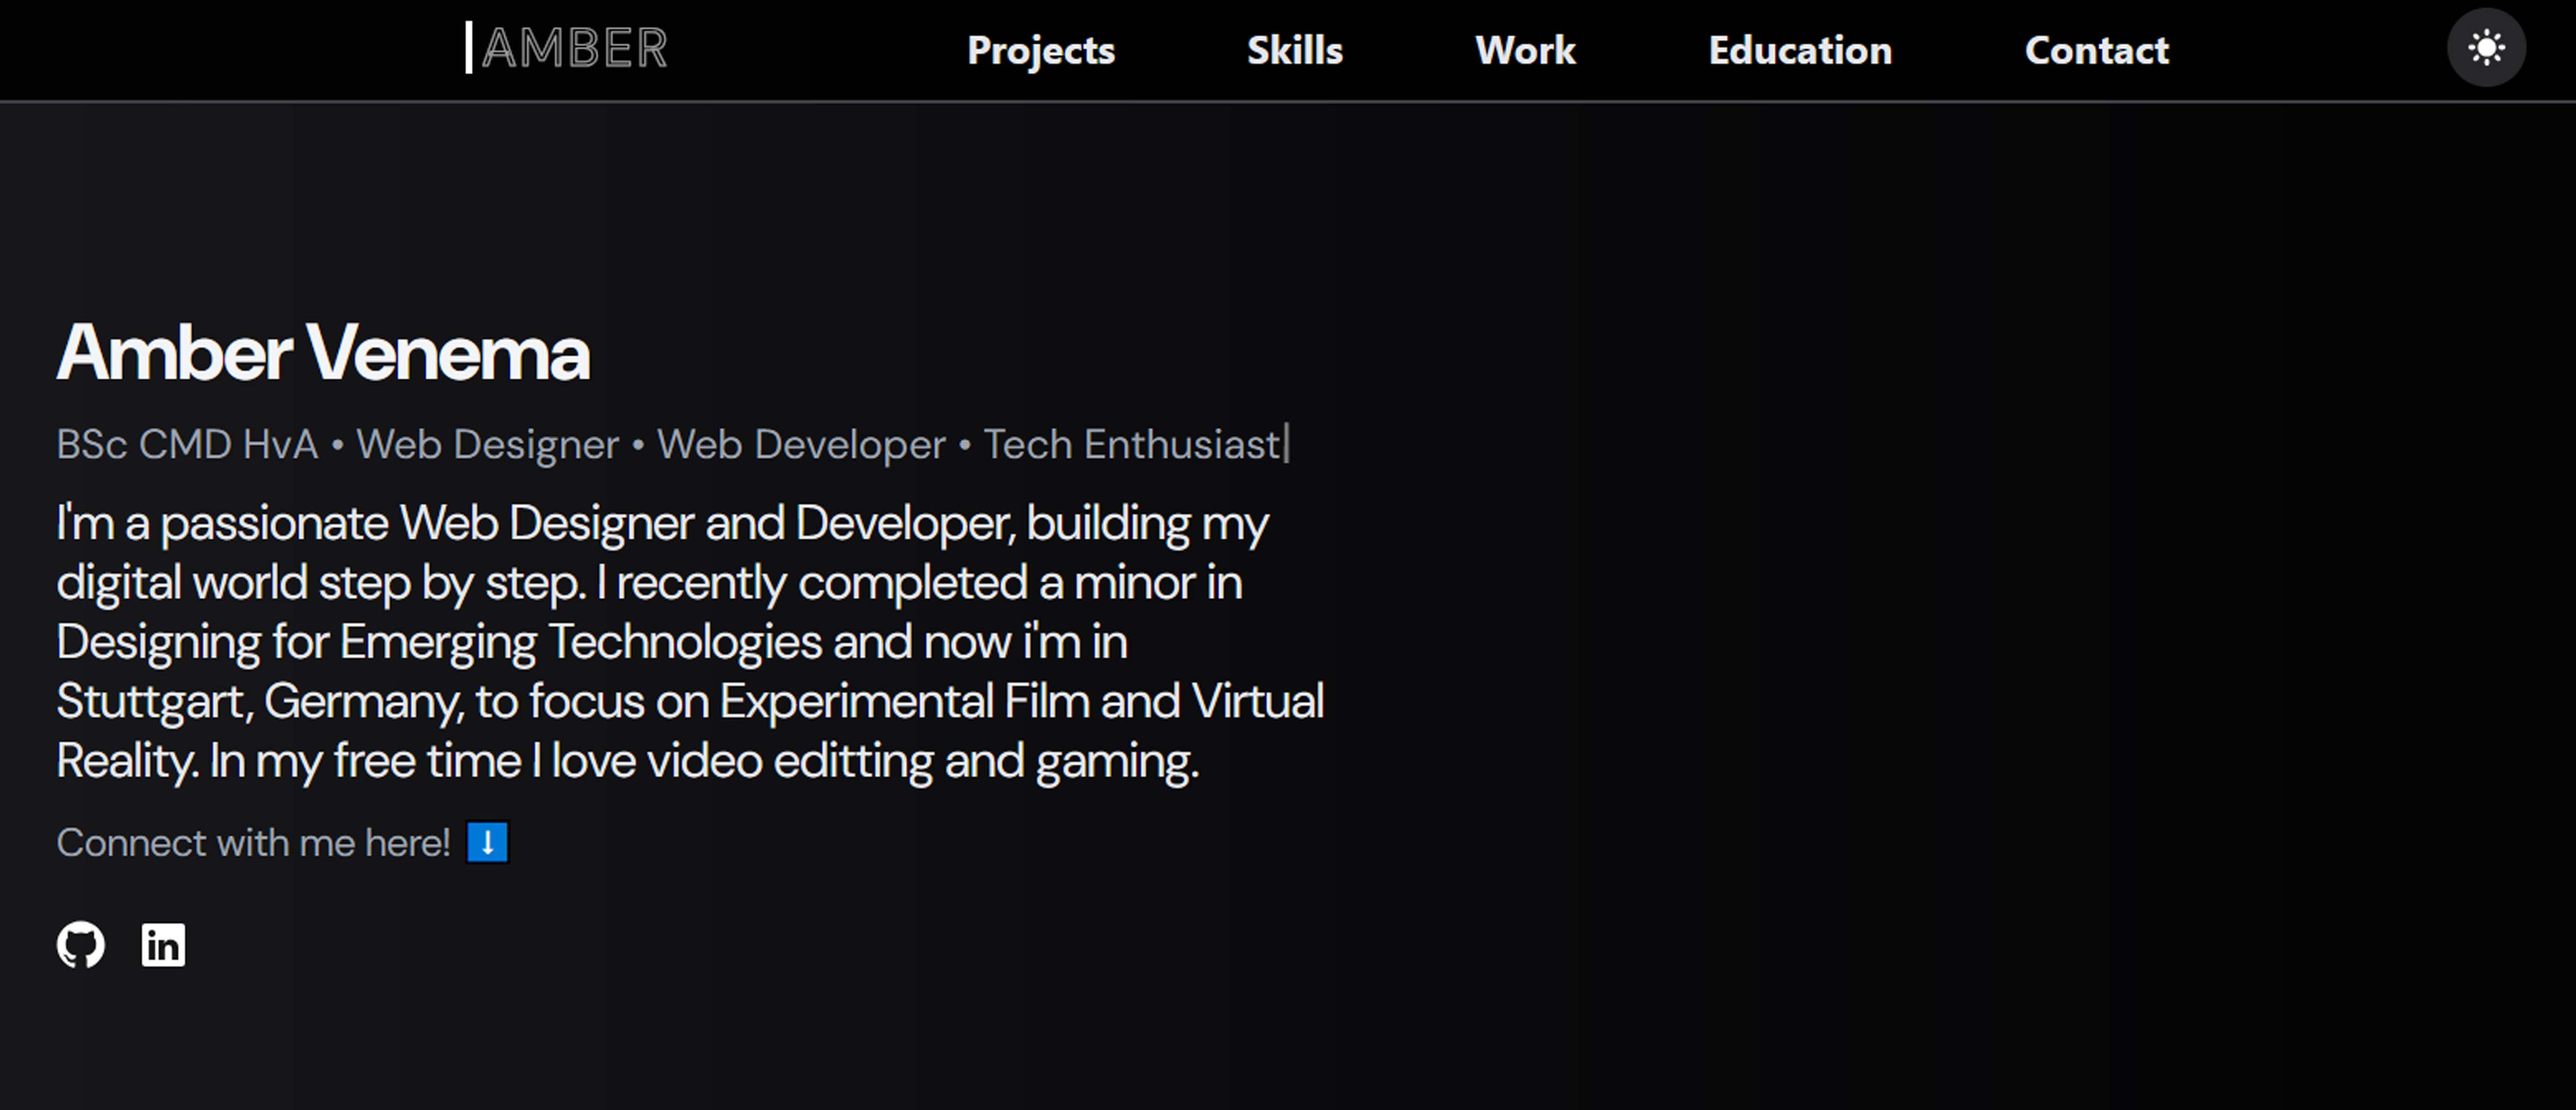
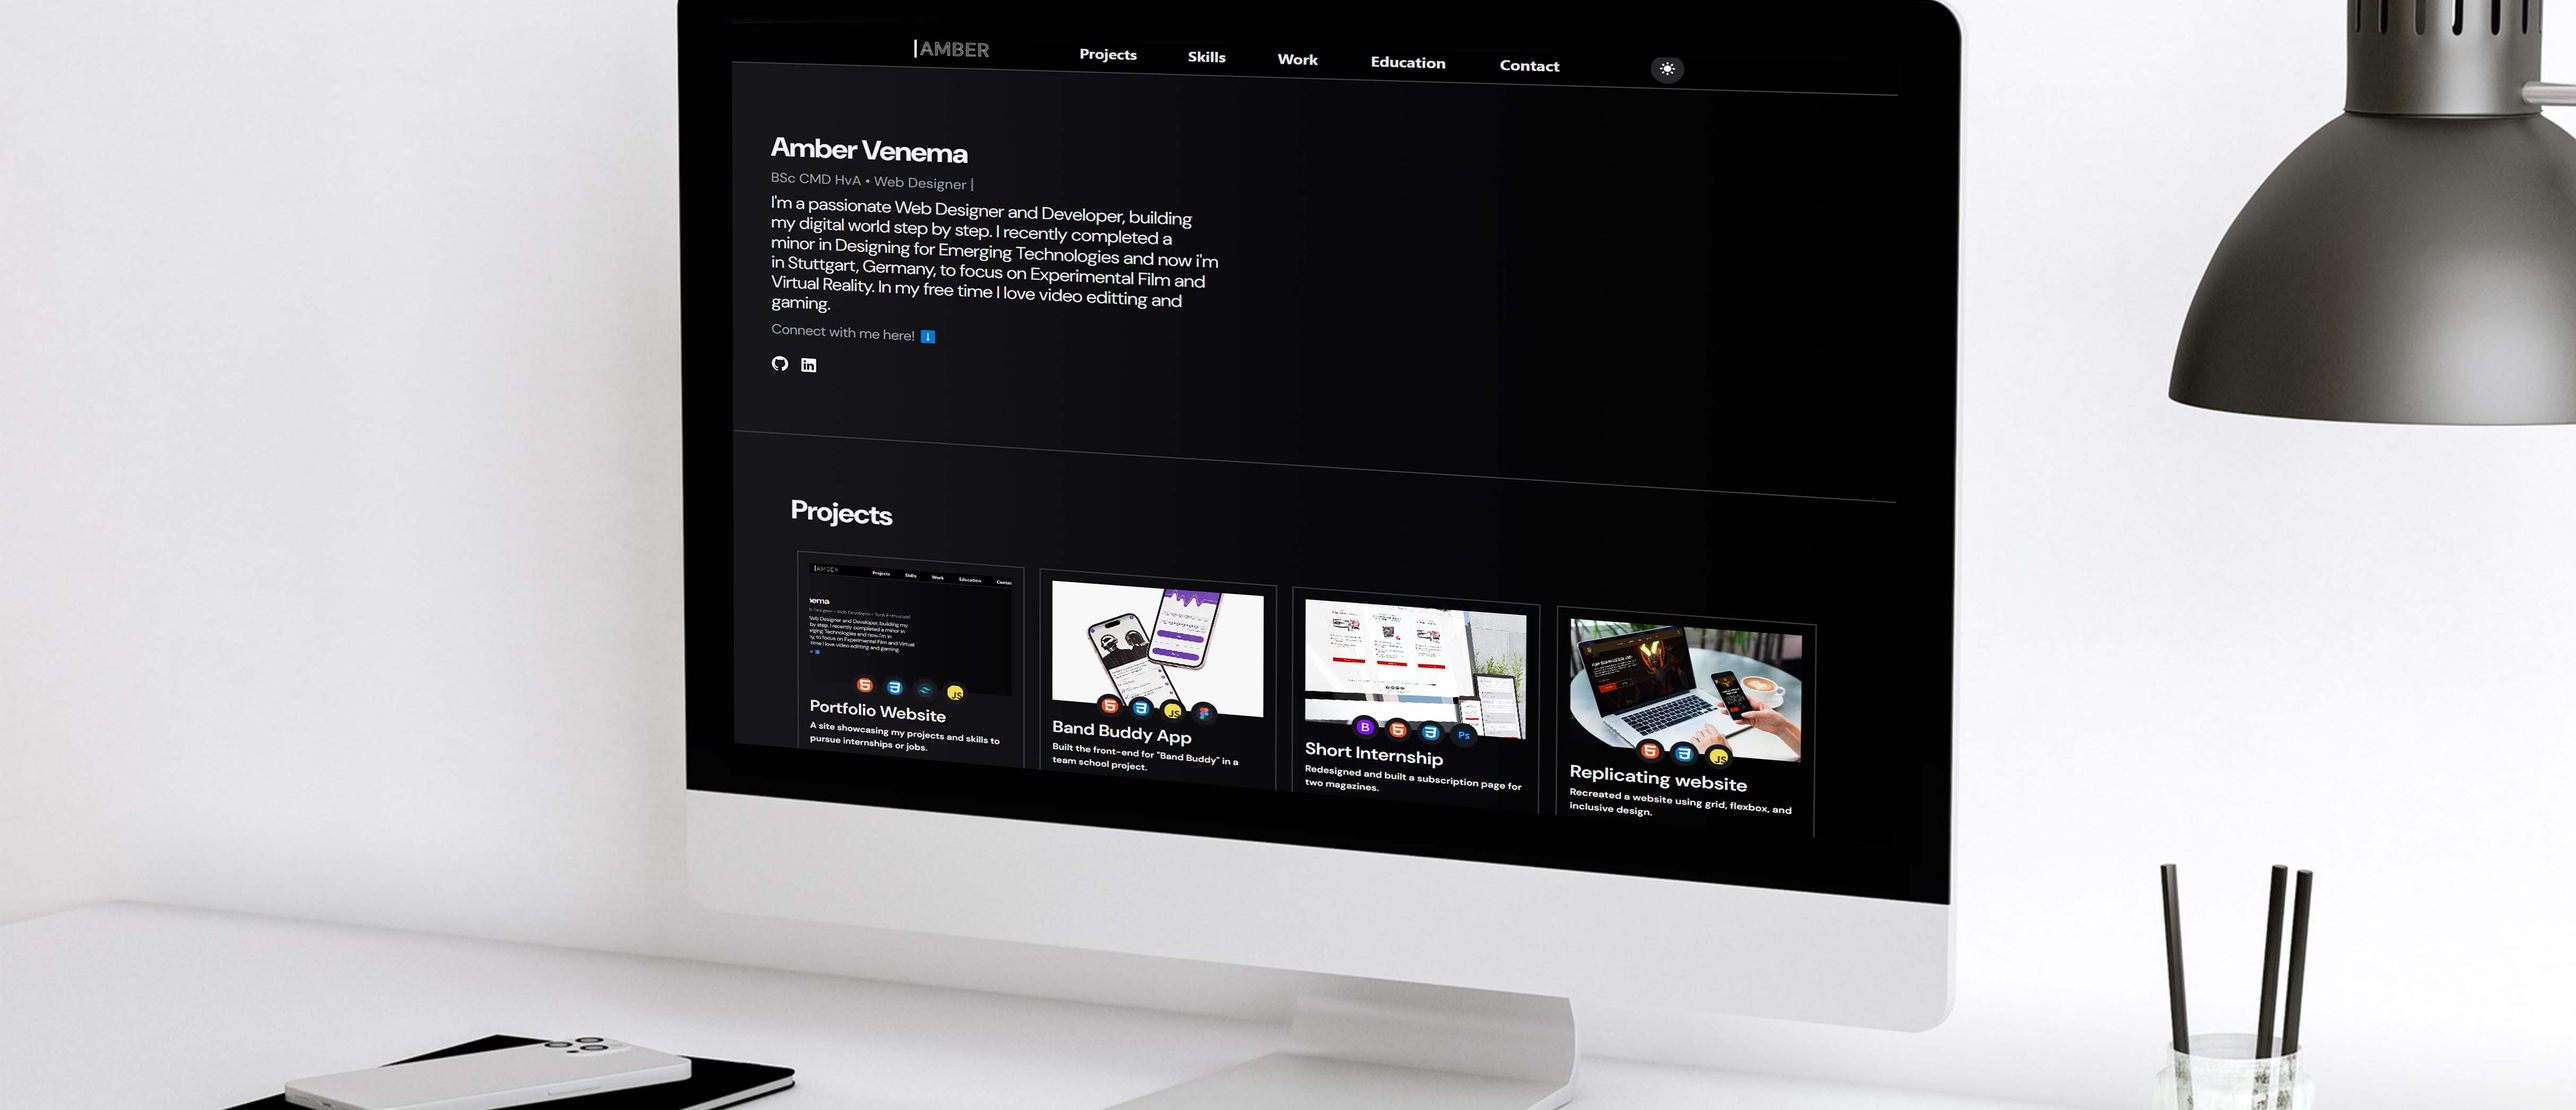
Add portolio text and images

diff --git a/PortfolioWebsite.html b/PortfolioWebsite.html
@@ -359,8 +359,12 @@
           <!-- Content -->
           <div class="max-w-4xl mx-auto px-8 py-12">
             <p class="dark:text-gray-100 text-gray-700 mb-16">
-              Project introduction and overview text goes here, explaining the
-              context, goals, and main challenges of the project.
+              This project is a personal portfolio website, created to showcase
+              my design and development skills. I started by forking an existing
+              open-source template and completely reshaped it into my own
+              minimal, editorial-style portfolio. The goal was to practice
+              Tailwind CSS, improve code structure, and present my work in a
+              professional way.
             </p>
 
             <!-- Development Progress -->
@@ -368,12 +372,28 @@
               <h2 class="text-3xl font-bold mb-8 dark:text-gray-100">
                 Development Progress
               </h2>
-              <div class="w-full h-96 bg-gray-200 mb-8"></div>
+              <div class="w-full h-96 bg-gray-200 mb-8">
+                <img
+                  class="image1 w-full h-auto object-cover"
+                  src="/public/Portfolio-InitialDesign.jpg"
+                  alt="Log in screen and Account of the Musician matching app BandBuddy"
+                />
+              </div>
               <h3 class="text-xl font-bold mb-4 dark:text-gray-100">
                 Initial Design
               </h3>
               <p class="dark:text-gray-100 text-gray-700">
-                Description of the first phase.
+                I used a template from GitHub as a base
+                <a
+                  href="https://github.com/Shivaraj-Kolekar/portfolio"
+                  class="text-purple-700"
+                  >(GitHub project by Shivaraj-Kolekar)</a
+                >, but I wanted to make the website truly my own. The initial
+                idea was to create a portfolio that felt structured, clean and
+                visually balanced. I was especially drawn to layouts with clear
+                lines and a block-based structure. Something that feels both
+                sharp and artistic. I fell in love with the style so i wanted to
+                create my own.
               </p>
             </section>
 
@@ -383,7 +403,12 @@
                 Development
               </h2>
               <p class="dark:text-gray-100 text-gray-700">
-                Details about the development process.
+                During development, I reorganized the code structure into clear,
+                separate folders for components, assets, and pages. I also
+                rewrote the styling using Tailwind CSS, which I learned
+                specifically for this project. Thanks to my knowledge of HTML
+                and CSS, I picked it up quickly and was able to build responsive
+                layouts efficiently.
               </p>
             </section>
 
@@ -392,8 +417,20 @@
               <h2 class="text-3xl font-bold mb-4 dark:text-gray-100">
                 Results
               </h2>
+              <div class="w-full h-80 bg-gray-200 mb-14">
+                <img
+                  class="image1 w-full h-auto object-cover"
+                  src="/public/Portfolio-Results.jpg"
+                  alt="Log in screen and Account of the Musician matching app BandBuddy"
+                />
+              </div>
               <p class="dark:text-gray-100 text-gray-700">
-                Key outcomes and achievements from the project.
+                The final website is clean and structured. Its block-based
+                layout gives it an editorial and artistic feel that matches my
+                personal style. The design focuses on strong visual lines and
+                clear typography. This project not only showcases my technical
+                skills but also reflects my eye for design and ability to turn a
+                template into something personal and professional.
               </p>
             </section>
 
@@ -403,7 +440,12 @@
                 Reflections
               </h2>
               <p class="dark:text-gray-100 text-gray-700">
-                Personal insights and lessons learned.
+                This project helped me improve both my frontend development and
+                design thinking. I learned to work more efficiently with
+                Tailwind, organize a project properly and develop a consistent
+                visual style. In future updates I plan to make the website
+                responsive and add more interactive elements to make the site
+                even more engaging.
               </p>
             </section>
           </div>

diff --git a/BandBuddy.html b/BandBuddy.html
@@ -362,17 +362,14 @@
           <!-- Content -->
           <div class="max-w-4xl mx-auto px-8 py-12">
             <p class="dark:text-gray-100 text-gray-700 mb-16">
-              For this project, I worked with three team members to design and
-              develop a fully functional web application in 10 weeks. The
-              assignment was to create a matching website where users could
-              create a profile, set their preferences, and get matched with
-              others. Our team chose a unique approach: BandBuddy, an app that
-              connects musicians.
-              <br /><br />
-              BandBuddy solves a common problem in the music industry: finding
-              the right musical partners nearby. Whether you're looking for a
-              drummer for your band, a guitarist to form a duo, or just someone
-              to jam with, BandBuddy makes it happen.
+              For this project, I collaborated with a team of four to design and
+              build <strong class="text-purple-700">BandBuddy</strong>, a fully
+              functional web application developed over
+              <strong class="text-purple-700">10 weeks</strong>. The concept was
+              a matching <strong class="text-purple-700">platform</strong>, but
+              we gave it a unique twist: a tool that connects
+              <strong class="text-purple-700">local musicians</strong> looking
+              for bandmates, jam partners, or collaborators.
             </p>
 
             <!-- Development Progress -->
@@ -405,6 +402,7 @@
 
             <!-- Development -->
             <section class="mb-16">
+              <div class="w-full h-96 bg-gray-200 mb-8"></div>
               <h2 class="text-xl font-bold mb-4 dark:text-gray-100">
                 Development
               </h2>
@@ -430,6 +428,7 @@
               <h2 class="text-3xl font-bold mb-4 dark:text-gray-100">
                 Results
               </h2>
+              <div class="w-full h-96 bg-gray-200 mb-8"></div>
               <p class="dark:text-gray-100 text-gray-700">
                 Due to time constraints, we were unable to implement certain
                 features, such as the chat functionality and some states like

diff --git a/index.html b/index.html
@@ -305,7 +305,7 @@
                   <!-- Achtergrond afbeelding -->
                   <img
                     class="image1 w-full h-56 object-cover"
-                    src="/home-mockup.png"
+                    src="/Overlay_Portfolio.jpg"
                     alt="Portfolio website full of projects and information about me"
                   />
                   <!-- Container voor de kleinere afbeeldingen - nu gecentreerd -->
@@ -369,7 +369,7 @@
                     </svg>
                   </a>
                   <a
-                    href="https://github.com/AmberVenema98/CMD-Block-Tech-Group-3"
+                    href="https://github.com/AmberVenema98/onepage-portfolio-amber"
                     class="project-buttons dark:fill-white fill-black bg-zinc-900 text-gray-100 border-2 dark:border-zinc-100 font-semibold p-3 gap-1 rounded-md"
                   >
                     Github
@@ -397,7 +397,7 @@
                 <div class="relative mb-8">
                   <img
                     class="image1 w-full h-56 object-cover"
-                    src="public/Mock-up_BandBuddy.jpg"
+                    src="/Mock-up_BandBuddy.jpg"
                     alt="Log in screen and Account of the Musician matching app BandBuddy"
                   />
                   <div
@@ -488,7 +488,7 @@
                 <div class="relative mb-8">
                   <img
                     class="image1 w-full h-56 object-cover"
-                    src="public/Mock-up_SP.jpg"
+                    src="/Mock-up_SP.jpg"
                     alt="Subscription and form page of the OOR website displayed on a computer, tablet and mobile"
                   />
                   <div
@@ -561,7 +561,7 @@
                 <div class="relative mb-8">
                   <img
                     class="image1 w-full h-56 object-cover"
-                    src="public/Mockup_WOW.jpg"
+                    src="/Mockup_WOW.jpg"
                     alt="Home screen of the World of Warcraft replica website displayed on a computer and mobile"
                   />
                   <div
